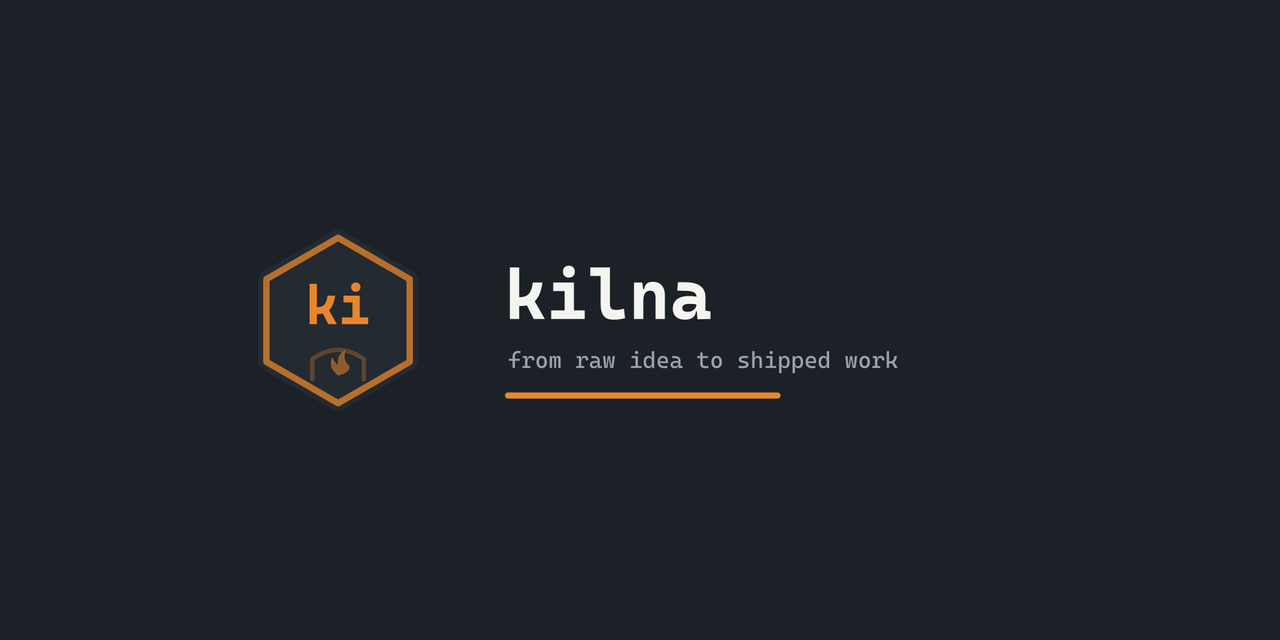
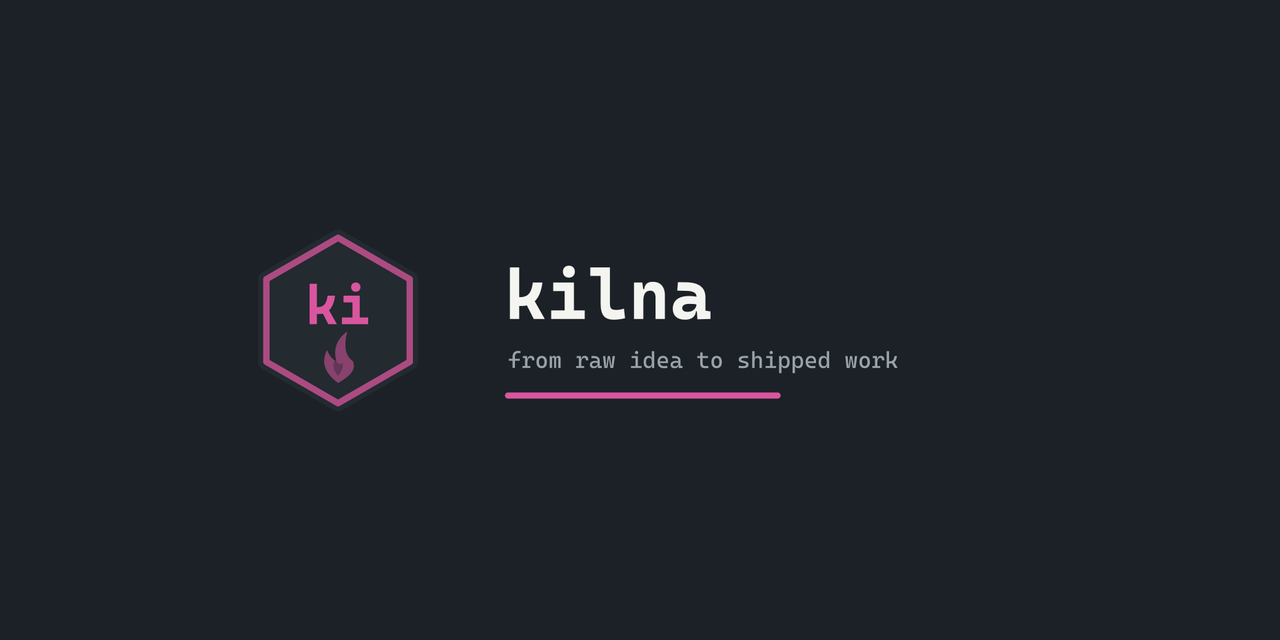
feat(brand): the approved mark — ki, the heat, magenta
Replace the provisional amber kiln with the mark the owner picked on the
brand board: a single tongue of fire, the kiln reduced to what it does.
The inner cut is filled with the tile colour, so the flame keeps its shape
down to the smallest tile — verified it also holds on the banner's lighter
plate.

Every SVG is copied from the line masters and byte-compared against them.
Add docs/export-assets.mjs so the rasters (ico, favicons, social preview)
are reproducible instead of hand-made, matching the rest of the line.

Changed region(s): [[0.1875, 0.375, 0.3438, 0.6562], [0.375, 0.5938, 0.625, 0.625]]

diff --git a/docs/src/styles/brand.css b/docs/src/styles/brand.css
@@ -1,14 +1,14 @@
-/* Brand accent: kilna signal amber. */
+/* Brand accent: kilna magenta. */
 :root {
-	--sl-color-accent: #e8862d;
-	--sl-color-accent-high: #f6b578;
-	--sl-color-accent-low: #4a2d0f;
+	--sl-color-accent: #d9569e;
+	--sl-color-accent-high: #f0a3ca;
+	--sl-color-accent-low: #4a1732;
 }
 
 :root[data-theme='light'] {
-	--sl-color-accent: #b8631a;
-	--sl-color-accent-high: #7a420f;
-	--sl-color-accent-low: #fbe4cd;
+	--sl-color-accent: #b13278;
+	--sl-color-accent-high: #75204f;
+	--sl-color-accent-low: #fbdcec;
 }
 
 /* ---------------------------------------------------------------- header -- */
